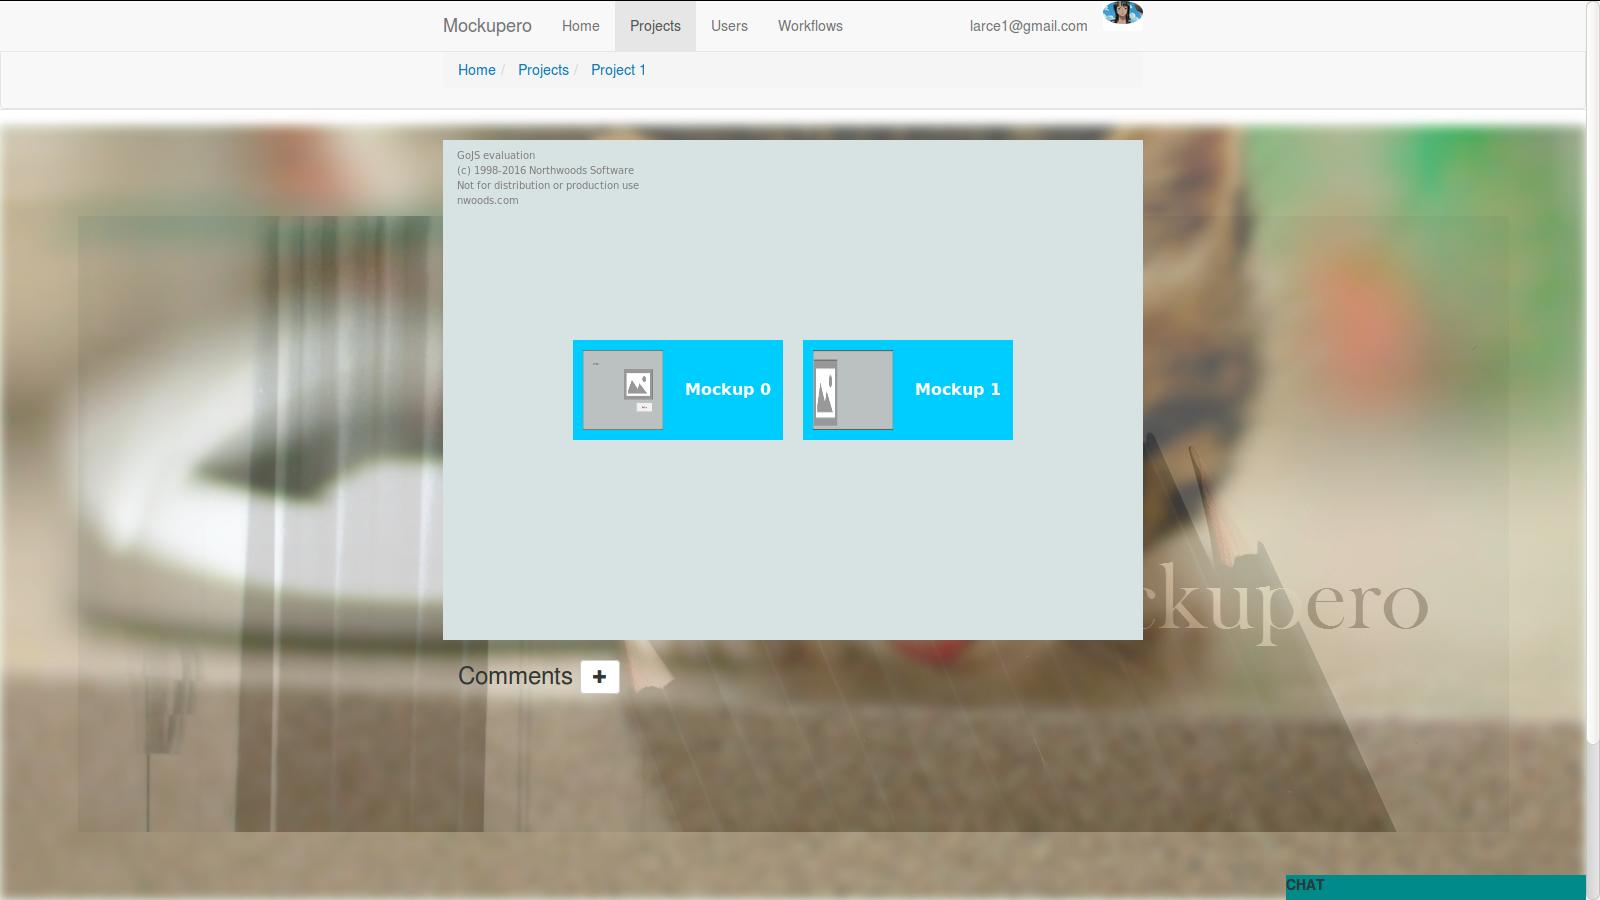
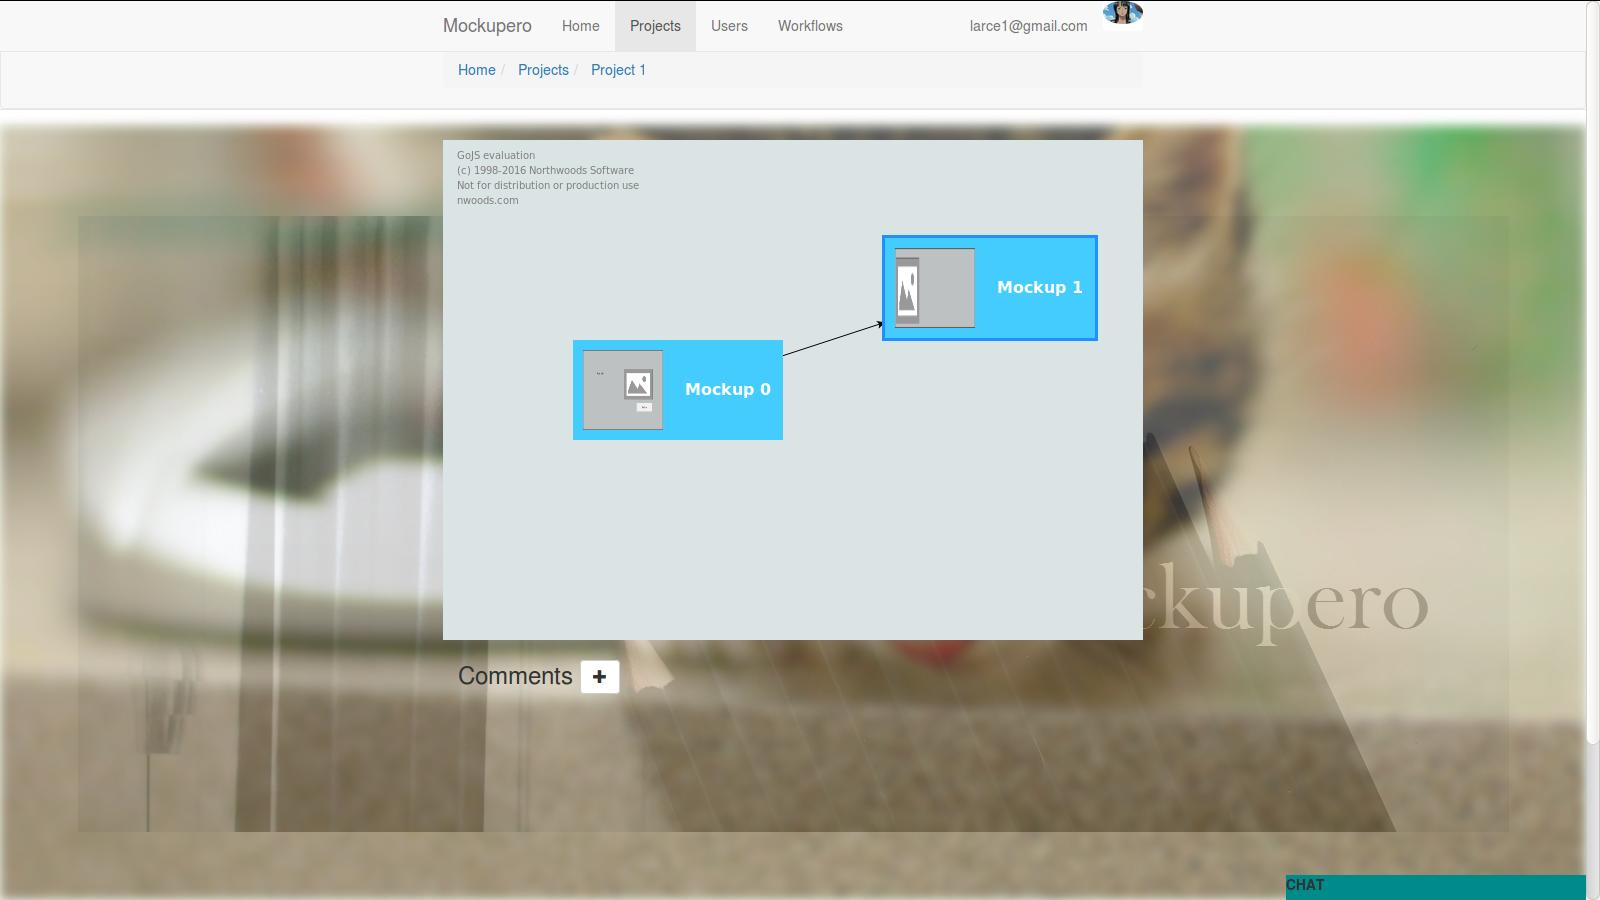
Implementation to manage mockup suggest

Changed region(s): [[0.3438, 0.2489, 0.6875, 0.4978]]

diff --git a/app/scripts/controllers/mockup-edit-design.js b/app/scripts/controllers/mockup-edit-design.js
@@ -10,10 +10,10 @@
 angular.module('mockuperApp')
     .controller('MockupEditDesignCtrl', ['$scope', '$rootScope', 'loginService', '$compile', '$window', '$routeParams', 'mockupService',
         '$timeout', '$http', '$cookieStore', 'propertyService', 'notificationService', 'breadcrumbService', 'headerService',
-        'mockupSocketService', 'userService', 'permissionService', 'mockupVersionService', 'GlobalService',
+        'mockupSocketService', 'userService', 'permissionService', 'mockupVersionService', 'GlobalService', 'workflowService',
         function($scope, $rootScope, loginService, $compile, $window, $routeParams, mockupService,
             $timeout, $http, $cookieStore, propertyService, notificationService, breadcrumbService, headerService,
-            mockupSocketService, userService, permissionService, mockupVersionService, GlobalService) {
+            mockupSocketService, userService, permissionService, mockupVersionService, GlobalService, workflowService) {
             loginService.reloadScope();
             headerService.updateHeader('projects');
             $scope.chatRoom = $routeParams.mockupId;
@@ -24,6 +24,11 @@ angular.module('mockuperApp')
             $scope.logingLog = {};
             $scope.error = '';
             $scope.versionMockups = [];
+            $scope.suggest = false;
+
+            if ($routeParams.suggestId) {
+                $scope.suggest = true;
+            }
 
             // Some source code to save min image that we are to use on the mockup preview and version of the mockup
             $scope.createImage = function() {
@@ -39,6 +44,16 @@ angular.module('mockuperApp')
                     }
                 });
             }
+            $scope.loadWorkflow = function() {
+                workflowService.workflow.get({
+                    where: {
+                        name: 'Mockup.' + $scope.editObject.state
+                    }
+                }).$promise.then(function(result) {
+                    $scope.workflows = result[0].next;
+                    $scope.currentworkflow = result[0];
+                });
+            }
 
             mockupService.mockupById.get({
                     mockupId: $routeParams.mockupId
@@ -46,6 +61,7 @@ angular.module('mockuperApp')
                 .$promise.then(function(result) {
                     $scope.reloadMockupVersions();
                     $scope.editObject = result;
+                    $scope.loadWorkflow();
                     try {
                         permissionService.loadPermission($scope, result.project.id, $cookieStore.get('userId'));
                         $rootScope.breadcrumb = breadcrumbService.updateBreadcrumb('mockup', $scope.editObject);
@@ -57,11 +73,10 @@ angular.module('mockuperApp')
                 //console.log($event);
                 $event.target.parentNode.appendChild($event.target);
             };
+
             $scope.clickMenu = function(item) {
                 //console.log(item);
             };
-
-            $scope.menuList = ['menu1', 'menu2', 'menu3'];
 
             $scope.mockupItems = [];
             $scope.mockupItemsBykey = {};
@@ -74,10 +89,14 @@ angular.module('mockuperApp')
             }
 
             $scope.loadMockupItems = function() {
+                var mockupId = $routeParams.mockupId;
+                if ($scope.suggest && $routeParams.suggestId != 'New') {
+                    mockupId = $routeParams.suggestId;
+                }
                 mockupService.getMockupItems.get({
                     sort: 'position ',
                     where: {
-                        mockupId: $routeParams.mockupId
+                        mockupId: mockupId
                     },
                     limit: 100
                 }).$promise.then(function(result) {
@@ -215,6 +234,84 @@ angular.module('mockuperApp')
                 });
             };
 
+            // set a variable in the mockup that will say that the mockup designer will design a suggest
+            // save the mockup in a copy that will be the suggest
+            // copy the items with the mockupSuggest id
+            // open that mockup that will be the suggest
+            $scope.saveSuggest = function() {
+                $("#spinner").show();
+                $("#btnSave").prop('disabled', true);
+                var myEl = angular.element(document.querySelector('#design-div'));
+                var position = 0;
+                if (myEl[0].children.length == 0) {
+                    $("#spinner").hide();
+                    $("#btnSave").prop('disabled', false);
+                }
+                $scope.createImage();
+                html2canvas($("#design-div"), {
+                    onrendered: function(canvas) {
+                        var ctx = canvas.getContext('2d');
+                        var dataURL = canvas.toDataURL();
+                        // the avatar will be created as usual
+                        mockupService.createMockupItemUploadAvatar.save({ img: dataURL, mockupId: $routeParams.mockupId }, function(result) {
+                            var items = [];
+                            var toDelete = [];
+                            $scope.editObject.links = [];
+                            $scope.editObject.suggest = true;
+                            $timeout(function() {
+                                angular.forEach(myEl[0].children, function(child) {
+                                    position++;
+                                    var item = propertyService.getItem('#' + child.id);
+                                    // if it is the first time that we save, copy the item
+                                    // if it is the seconf time or more just update the item.
+                                    item.mockupId = $routeParams.mockupId;
+                                    if (item.id && item.id.length < 10) {
+                                        item.id = undefined;
+                                    }
+                                    $scope.loadStaticValues(item);
+                                    items.push(item);
+                                    if (item.id == undefined) {
+                                        toDelete.push(child);
+                                    }
+                                });
+
+                                // save all items should use items with new mockupSuggest Id
+                                mockupService.saveAllMockupItems.save({ items: items }, function(result) {
+                                    $timeout(function() {
+                                        io.socket.post('/mockupVersion/saveIt', {
+                                            number: 'version 1',
+                                            mockup: $routeParams.mockupId,
+                                            user: $cookieStore.get('userId'),
+                                            action: 'update',
+                                            message: 'Update the Mockup'
+                                        }, function serverResponded(body, JWR) {
+                                            toDelete.forEach(function(child) {
+                                                $(child).remove();
+                                            });
+                                            $scope.loadMockupItems();
+                                            $scope.reloadMockupVersions();
+                                            $("#spinner").hide();
+                                            $("#btnSave").prop('disabled', false);
+                                        });
+                                        try {
+                                            $scope.$digest();
+                                        } catch (ex) { console.error(ex); }
+
+                                    }, myEl[0].children.length * 30);
+                                    $scope.loadMockupItems();
+                                });
+                                // what does this code do?
+                                mockupService.updateMockup.update({
+                                    id: $scope.editObject.id
+                                }, $scope.editObject, function(result) {}, function(err) {
+                                    $scope.err = err;
+                                });
+                            }, myEl[0].children.length * 50);
+                        });
+                    }
+                });
+            };
+
             // This id has # included in the string
             $scope.getItemId = function(idComp) {
                 var idResult = 0;
@@ -239,7 +336,6 @@ angular.module('mockuperApp')
                     ////console.log('Mockup editor out');
                 });
                 $window.location.href = '#/project/' + $routeParams.projectId + '/mockup/' + $scope.editObject.id;
-
             }
 
             interact('.resize-drag')

diff --git a/app/views/mockup-edit-design.html b/app/views/mockup-edit-design.html
@@ -3,11 +3,21 @@
         <div ng-show="n.online" style=" border-radius: 8px; padding: 1px; padding-left: 8px; font-size: 150%;text-transform: uppercase;display: inline-block; width: 30px; {{($index % 2 == 0) ? 'color:#660A44; background: #CFD4E5;': 'color:#CFD4E5; background: #660A44;'}} {{n.online ? 'opacity: 1;': 'opacity: 0.5;'}} ">{{n.username.substring(0,1)}}
         </div>
     </div>
-    <div style=" height: 80px; display: inline-block;" ng-if="editMode">
+    <div style="height: 80px; display: inline-block;" ng-if="!suggest">
         <button id="btnSave" type="button" class="btn btn-default" aria-label="save" ng-click="save()" title="Save Mockup">
             <span class="glyphicon glyphicon-floppy-save" aria-hidden="true"></span>
         </button>
         <mockup-version></mockup-version>
+        <reuse-mockup></reuse-mockup>
+        <img id="spinner" ng-src="static/spinner.gif" style="display:none;" width="30px">
+    </div>
+    <div style="height: 80px; display: inline-block;" ng-if="suggest">
+        <div style="background: yellow; display: inline-block;">
+            [Suggest]
+        </div>
+        <button id="btnSave" type="button" class="btn btn-default" aria-label="save" ng-click="save()" title="Save Suggest">
+            <span class="glyphicon glyphicon-floppy-save" aria-hidden="true"></span>
+        </button>
         <reuse-mockup></reuse-mockup>
         <img id="spinner" ng-src="static/spinner.gif" style="display:none;" width="30px">
     </div>
@@ -32,7 +42,7 @@
 </div>
 <div style="height: 40px;  background: #f9f9f9; position: absolute; top: 115px; border: 1px dashed #ccc; width: {{(editObject.width < 400 ? 400 : editObject.width)}}px; padding: 5px; left: {{editObject.width < 500 ? 100: (1000/editObject.width * 200)}}px;" ng-if="editMode">
     <div style="display: inline-block; width: 30px;">
-        <img height="25px" ng-click="addImage()" src="static/icons/image.png" alt="..."  data-toggle="tooltip" title="Add Image"/>
+        <img height="25px" ng-click="addImage()" src="static/icons/image.png" alt="..." data-toggle="tooltip" title="Add Image" />
     </div>|
     <div style="display: inline-block;  width: 30px;">
         <img style="height: 15px; width: 27px;" ng-click="addButton()" src="static/icons/button.png" alt="..." data-toggle="tooltip" title="Add Button" />
@@ -44,7 +54,7 @@
         <img height="25px" ng-click="addLabel()" src="static/icons/text.png" alt="..." data-toggle="tooltip" title="Add Text Label" />
     </div>|
     <div style="display: inline-block; width: 30px; border: 1px; border-color: red; border-width: 1px; border-style: dashed;">
-        <img height="25px" style="width: 27px;" ng-click="addContainer()" src="static/icons/container.png" alt="..."  data-toggle="tooltip" title="Add Container"/>
+        <img height="25px" style="width: 27px;" ng-click="addContainer()" src="static/icons/container.png" alt="..." data-toggle="tooltip" title="Add Container" />
     </div>
 </div>
 <div id="design-div" style="border-width: 2px; border-style: solid; border-color: black; position: absolute; top: 156px; width: {{editObject.width}}px; height: {{editObject.height}}px; left: {{editObject.width < 500 ? 100: (1000/editObject.width * 200)}}px;">

diff --git a/app/scripts/controllers/mockup.js b/app/scripts/controllers/mockup.js
@@ -43,8 +43,6 @@ angular.module('mockuperApp')
                     }
                 }).$promise.then(function(result) {
                     $scope.workflows = result[0].next;
-                    console.log("Loading the workflows");
-                    console.log($scope.workflows);
                     $scope.currentworkflow = result[0];
                 });
             }
@@ -56,6 +54,14 @@ angular.module('mockuperApp')
             }
 
             $scope.save = function() {
+                mockupService.updateMockup.update({
+                    id: $scope.mockup.id
+                }, $scope.mockup, function(result) {}, function(err) {
+                    $scope.err = err;
+                });
+            }
+
+            $scope.saveSuggest = function() {
                 mockupService.updateMockup.update({
                     id: $scope.mockup.id
                 }, $scope.mockup, function(result) {}, function(err) {

diff --git a/app/scripts/app.js b/app/scripts/app.js
@@ -63,6 +63,10 @@ angular
                 templateUrl: 'views/mockup-edit.html',
                 controller: 'MockupEditCtrl'
             })
+            .when('/project/:projectId/mockup-edit-design/:mockupId/suggest/:suggestId', {
+                templateUrl: 'views/mockup-edit-design.html',
+                controller: 'MockupEditDesignCtrl'
+            })
             .when('/project/:projectId/mockup-edit-design/:mockupId', {
                 templateUrl: 'views/mockup-edit-design.html',
                 controller: 'MockupEditDesignCtrl'

diff --git a/app/views/mockup.html b/app/views/mockup.html
@@ -8,7 +8,7 @@
 </div>
 <div class="container">
     <a ng-show="currentworkflow.permission.edit == 'YES'" href="#/{{viewObject.editDesign}}" class="btn btn-sm btn-default" role="button" ng-if="editMode">Design</a>
-    <a href="#/project/{{projectId}}/mockup-suggest/{{mockupId}}" class="btn btn-sm btn-info" role="button">Suggest</a>
+    <a ng-show="currentworkflow.permission.edit == 'NO'"  href="#/{{viewObject.editDesign}}/suggest/New" class="btn btn-sm btn-info" role="button">Suggest</a>
 </div>
 <br>
 <p style="text-align:center;">
